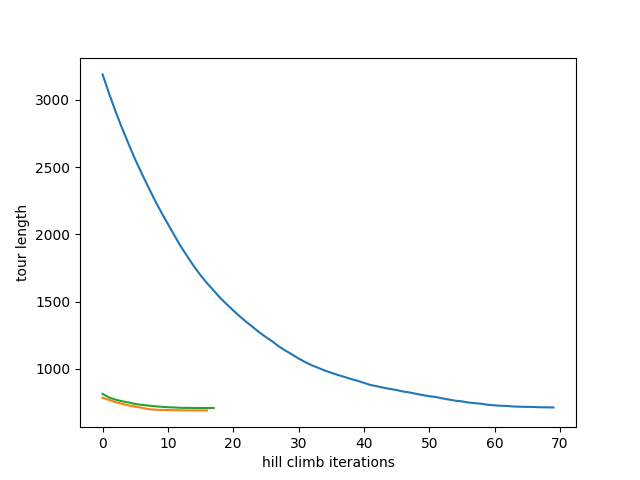
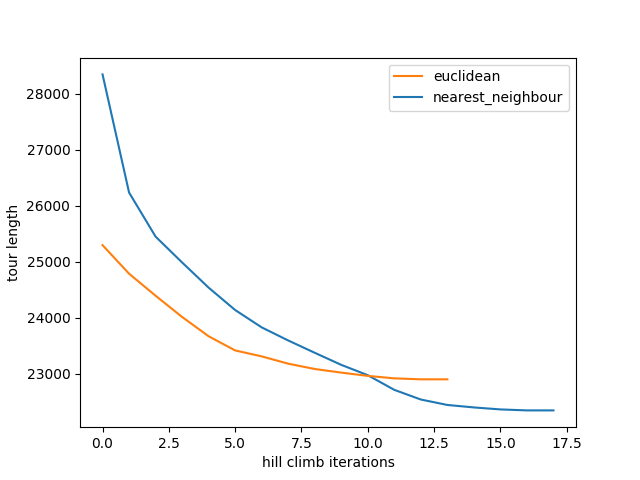
implemented assignment

diff --git a/implemented_assignment.py b/implemented_assignment.py
@@ -7,18 +7,17 @@ from collections import defaultdict
 import argparse
 import random
 import itertools
+from dd import *
 
 
+cities = 0
+nodeDict = {}
 
 class Node():
     def __init__(self,index, xc, yc):
         self.i = index
         self.x = xc
         self.y = yc
-
-
-cities = 0
-nodeDict = {}
 
 
 def generateFile(cities, seed):
@@ -48,17 +47,99 @@ def takeInput(file):
 
 
 def generate2optNeighbours(tour):
+    global cities
     all_possible_neighbours = []
+    order = tour
+    for x in range(len(order)):
+        for y in range(len(order)):
+            if x < y:
+                #print(x)
+                #print(y)
+                new_order = order[:x] + order[x:y][::-1] + order[y:]
+                #print(new_order)
+                all_possible_neighbours.append(new_order)
+
     "*** YOUR CODE HERE ***"
     return all_possible_neighbours
 
+def print2optNeighbours(tourList):
+    pass
+
+
 
 def generateRandomTour(r2seed):
+    global cities
+    print(cities)
     random.seed(r2seed)
     tour = [x for x in range(1,cities+1)]
-    tour = shuffle(tour)
+    #print(tour)
+    shuffle(tour)
+    #print(tour)
     return tour
 
+#-------------------------------------------------------------------------------------#
+def getTourLength(tour):
+    global cities
+    if len(tour) == 0:
+        return 0
+
+    length = 0
+    if len(tour) == 2:
+        return getDistance(nodeDict[tour[0]],nodeDict[tour[1]])
+
+    for x in range(len(tour)-1):
+        length += getDistance(nodeDict[tour[x]],nodeDict[tour[x+1]]) 
+    
+    length += getDistance(nodeDict[tour[0]],nodeDict[tour[-1]])
+
+    return length
+
+def getDistance(n1, n2):
+    return math.sqrt((n1.x-n2.x)*(n1.x-n2.x) + (n1.y-n2.y)*(n1.y-n2.y))
+
+step = 0
+def hillClimbOneStep(tour):
+    global step
+    #print(step)
+    step += 1
+    global cities
+    possible_neighbours = generate2optNeighbours(tour)
+    print(possible_neighbours)
+    #possible_neighbours = get3OptNeighbours(tour)
+    min_tour_length = getTourLength(tour)
+    min_tour = 0
+    localMinima = True 
+    for x in possible_neighbours:
+        if getTourLength(x) < min_tour_length:
+            localMinima = False 
+            min_tour = x
+            min_tour_length = getTourLength(x)
+
+    print(localMinima)
+    return min_tour, min_tour_length, localMinima
+
+def hillClimbFull(initial_tour):
+
+    global cities
+    tour_list = []
+    change = True
+    min_tour_length = 00000000
+    min_tour = 0
+    tour = initial_tour
+    while True:
+        tour, tour_length,localMinima = hillClimbOneStep(tour)
+        tour_list.append(tour_length)
+        if localMinima == True:
+            #print("minimum tour found")
+            break
+        else:
+            min_tour_length = tour_length
+            min_tour = tour
+
+    print(tour_list)
+    return tour_list, min_tour
+
+#---------------------------------------------------------------------------------------------------------------
 
 def hillClimbWithRandomTour(tour):
     """ Use the given tour as initial tour, Use your generate2optNeighbours() to generate
@@ -67,9 +148,17 @@ def hillClimbWithRandomTour(tour):
         function. You will find 'task2.png' in current directory which shows hill climb algorithm performace
         that is hill climb iterations against tour length"""
 
-    list = []
+    
+    tourLengthList = []
+    tourLengthList, minTour = hillClimbFull(tour)
+    #print(minTour)
+    #print(tourLengthList)
+
+
     "*** YOUR CODE HERE***"
-    generateGraph(list)
+    '''
+    generateGraph(tourLengthlist)
+    '''
 
 
 if __name__ == "__main__":
@@ -77,7 +166,7 @@ if __name__ == "__main__":
     parser.add_argument('--file', '-f', action='store', dest='file', help="Provide a file name (if file given then no need to provide city and random seed option that is -n and -r)")
     parser.add_argument('-n', action='store', type=int, dest='cities', help="Provide number of cities in a tour")
     parser.add_argument('-r1', action='store', type=int, dest='r1seed', default=1, help="random seed")
-    parser.add_argument('-r2', action='store', type=int, dest='r2seed', default=1 help="random seed")
+    parser.add_argument('-r2', action='store', type=int, dest='r2seed', default=1, help="random seed")
     parser.add_argument('--task', '-t', action='store', type=int, dest="task", help="task to execute")
     args = parser.parse_args()
 
@@ -95,10 +184,10 @@ if __name__ == "__main__":
         sys.exit()
 
     if args.task == 1:
-        tour = generateRandomTour()
-        list = generate2optNeighbours(tour)
-        print(list)
+        tour = generateRandomTour(args.r2seed)
+        list1 = generate2optNeighbours(tour)
 
     if args.task == 2:
-        tour = generateRandomTour()
+        tour = generateRandomTour(args.r2seed)
         hillClimbWithRandomTour(tour)
+

diff --git a/hillClimb.py b/hillClimb.py
@@ -40,11 +40,11 @@ def euclidpapa():
             kruskal_set.append((x[0],x[1]))
             union(x[0],x[1])
 
-    print(kruskal_set)
+    #print(kruskal_set)
     fin_ord = construct_graph(kruskal_set)
     #fin_ord.append(1)
     return fin_ord
-    print(fin_ord)
+    #print(fin_ord)
 
 def construct_graph(kruskal_set):
     adj_list = defaultdict(list) 
@@ -159,13 +159,20 @@ def get2OptNeighbours(order):
     final_neighbours = []
     for x in range(len(order)):
         for y in range(len(order)):
-            if x != y:
+            if x < y:
+                print(x)
+                print(y)
                 new_order = order[:x] + order[x:y][::-1] + order[y:]
+                print(new_order)
                 final_neighbours.append(new_order)
     return final_neighbours
 
-def get3OptNeigbours(s):
-    return
+def integerFromNode(order):
+    for x in order:
+        for z in x:
+            z = z.i
+    return order
+#print(get2OptNeighbours([1,2,3,4]))
 
 def getTourLength(tour):
 
@@ -249,14 +256,13 @@ def HillClimbWithInitialNearestNeighbourTour():
 
 def starter():
     global cities
+    
     takeInput()
+    integerFromNode(get2OptNeighbours(getRandomTour()))
 
-
-    HillClimbWithInitialRandomTour(3)
+    '''
+    #HillClimbWithInitialRandomTour(3)
     HillClimbWithInitialNearestNeighbourTour()
-    #drawPath(nodeDict, min_tour, min_tour_length)
-
-
     #print(cities)
     #tour = getRandomTour()
     #print(tour)
@@ -270,6 +276,9 @@ def starter():
     graph_plot.plot_euclidean(tour_list)
     graph_plot.save("a.png")
 
+    drawPath(nodeDict, min_tour, min_tour_length)
     print(min_tour_length)
+    print("done")
+    '''
     
 starter()

diff --git a/dd.py b/dd.py
@@ -1,0 +1,21 @@
+def getTourLength(tour):
+
+    global cities
+    if len(tour) == 0:
+        return 0
+
+    length = 0
+    if len(tour) == 2:
+        return getDistance(nodeDict[tour[0]],nodeDict[tour[1]])
+
+    for x in range(len(tour)-1):
+        length += getDistance(nodeDict[tour[x]],nodeDict[tour[x+1]]) 
+    
+    length += getDistance(nodeDict[tour[0]],nodeDict[tour[-1]])
+
+    return length
+
+def getDistance(n1, n2):
+    return math.sqrt((n1.x-n2.x)*(n1.x-n2.x) + (n1.y-n2.y)*(n1.y-n2.y))
+
+

diff --git a/graph_plot.py b/graph_plot.py
@@ -30,5 +30,7 @@ def plot_nearest_neighbour(b):
 	z = handle3
 
 def save(filename):
-	plt.legend(handles=[x, y, z])
+	#plt.legend(handles=[x, y, z])
+
+	plt.legend(handles=[y, z])
 	plt.savefig(filename)
